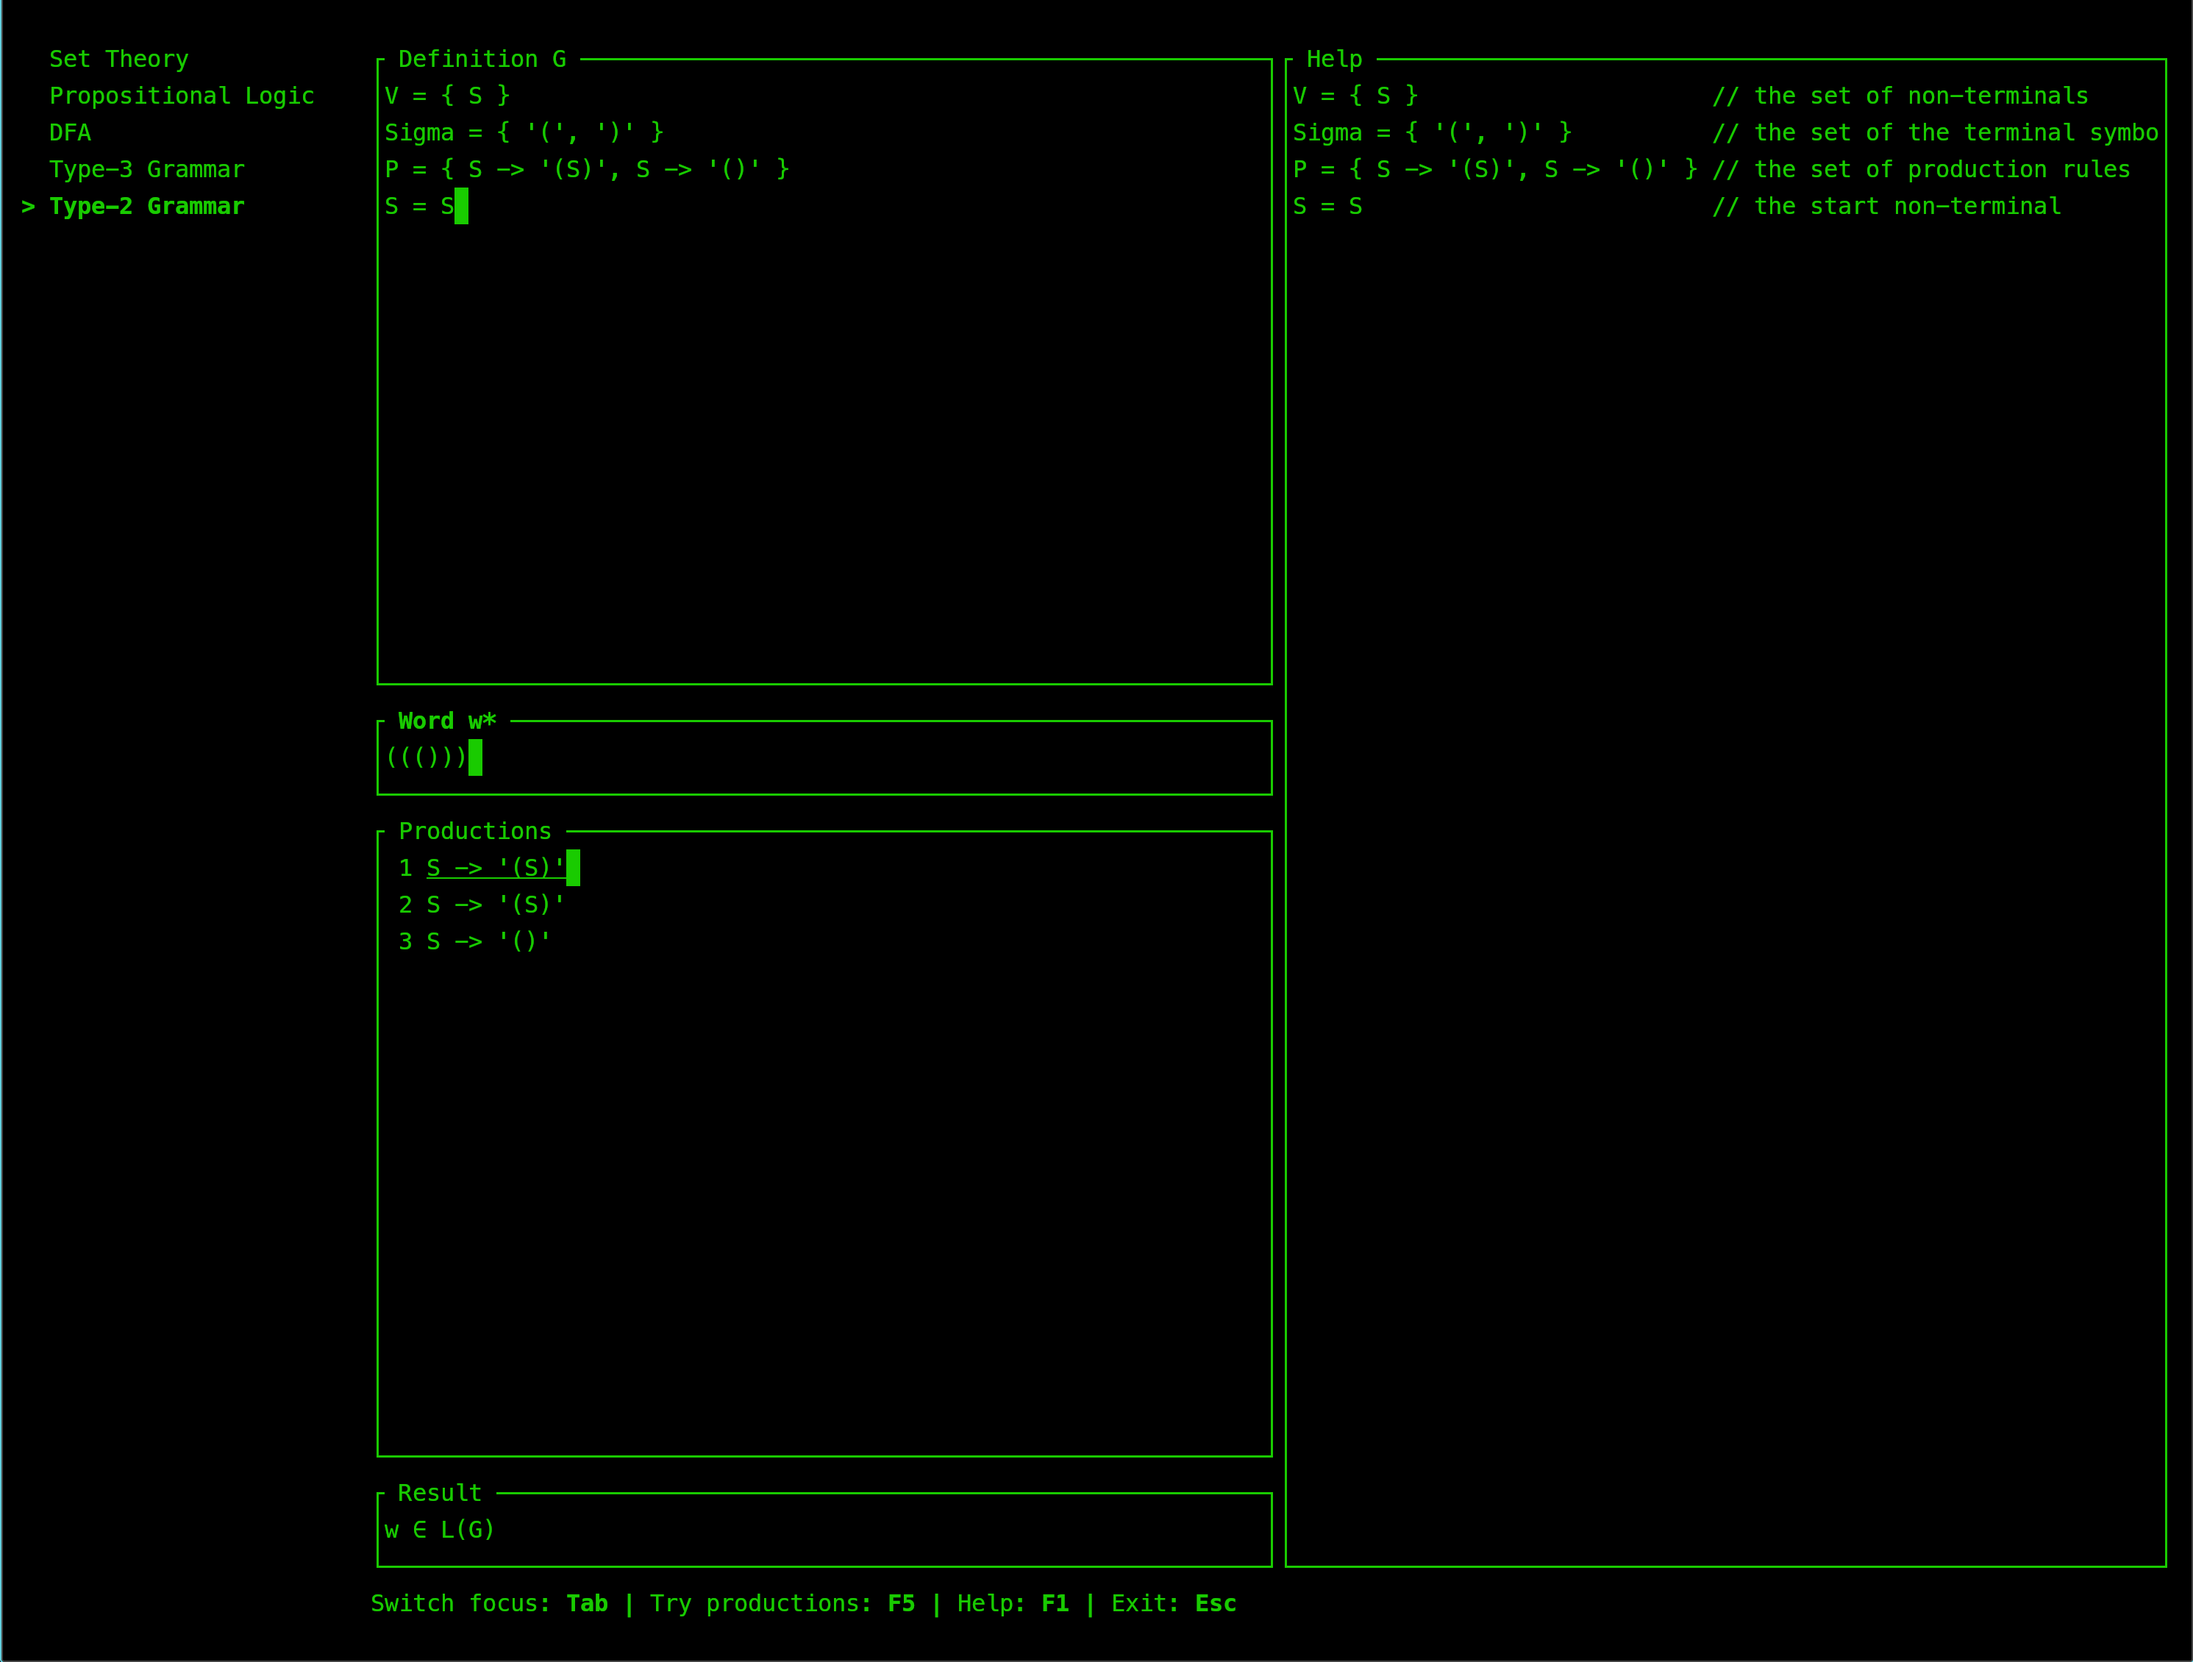
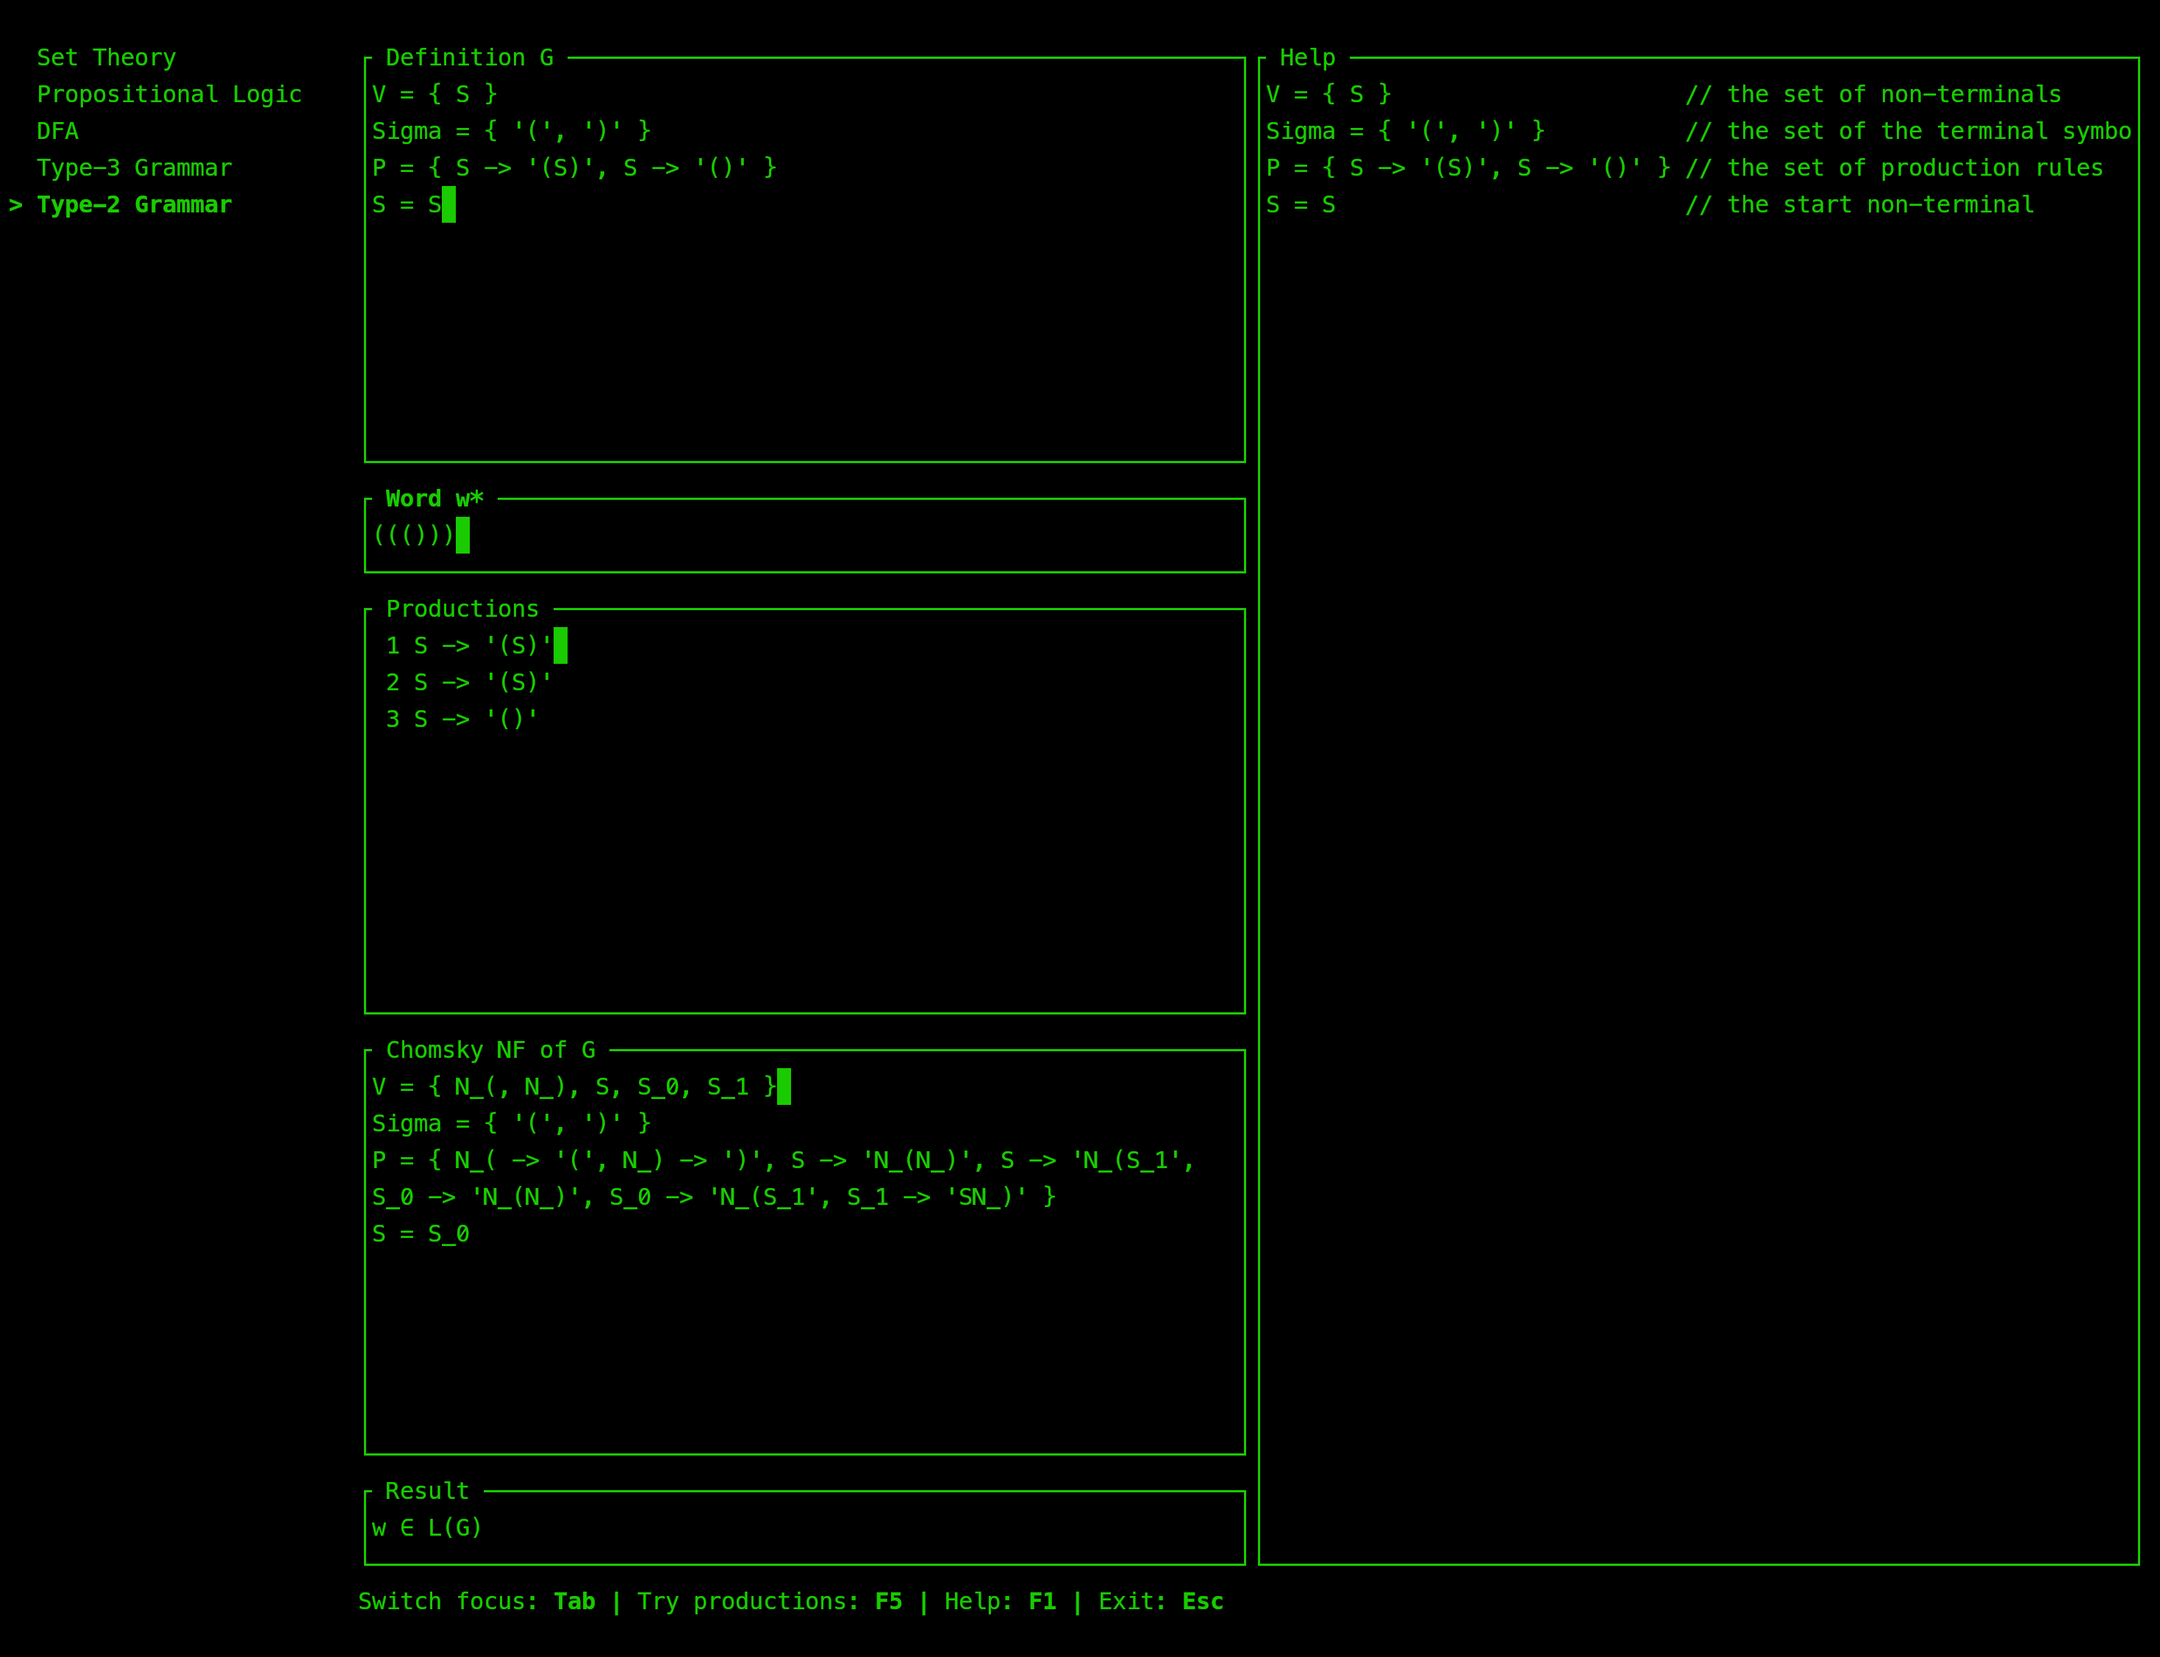
docs: update screenshot of Type-2 Grammar

diff --git a/theotui/src/update.rs b/theotui/src/update.rs
@@ -11,7 +11,8 @@ use std::{collections::HashMap, ops::Deref};
 use theoinf::{
     dfa::{self, RunningDfa},
     propositional_logic::{Assignment, run},
-    type2grammar, type3grammar,
+    type2grammar::{self, Type2Grammar},
+    type3grammar,
 };
 use tui_input::{Input, backend::crossterm::EventHandler};
 
@@ -492,7 +493,6 @@ pub(crate) fn update(model: &mut Model, msg: Msg) {
                                 .join("\n")
                         })
                         .unwrap_or("".into());
-                    // let cnf = g.to_cnf_vladik().to_string();
                     let cnf = g.to_cnf().to_string();
                     (T2GrammarResult::Produced(has_produced), chain, cnf)
                 }
